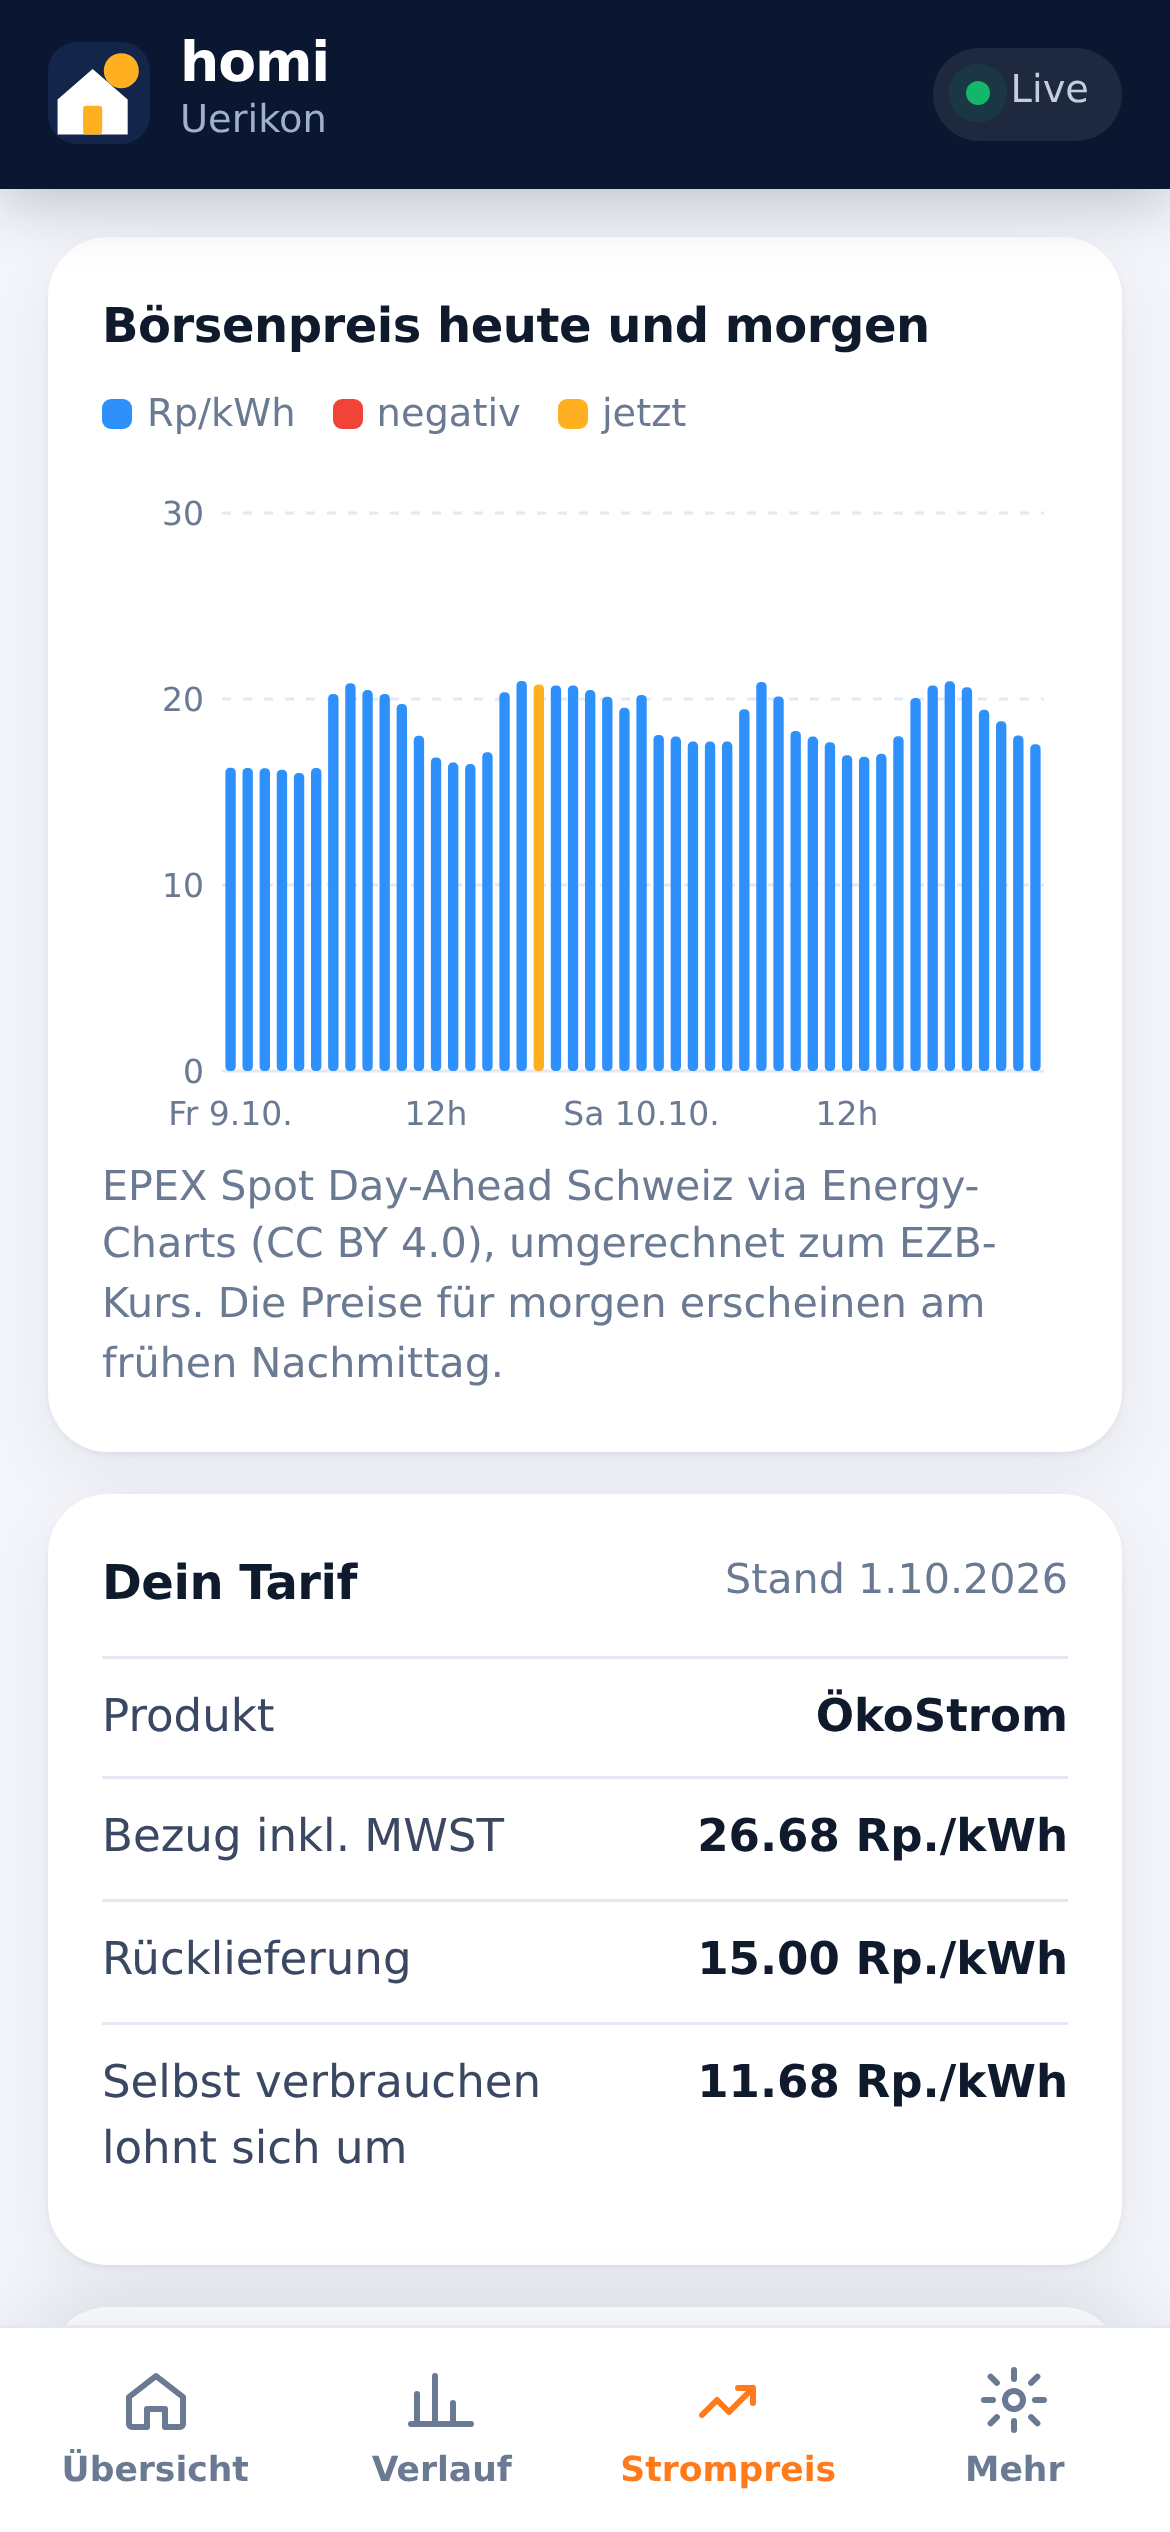
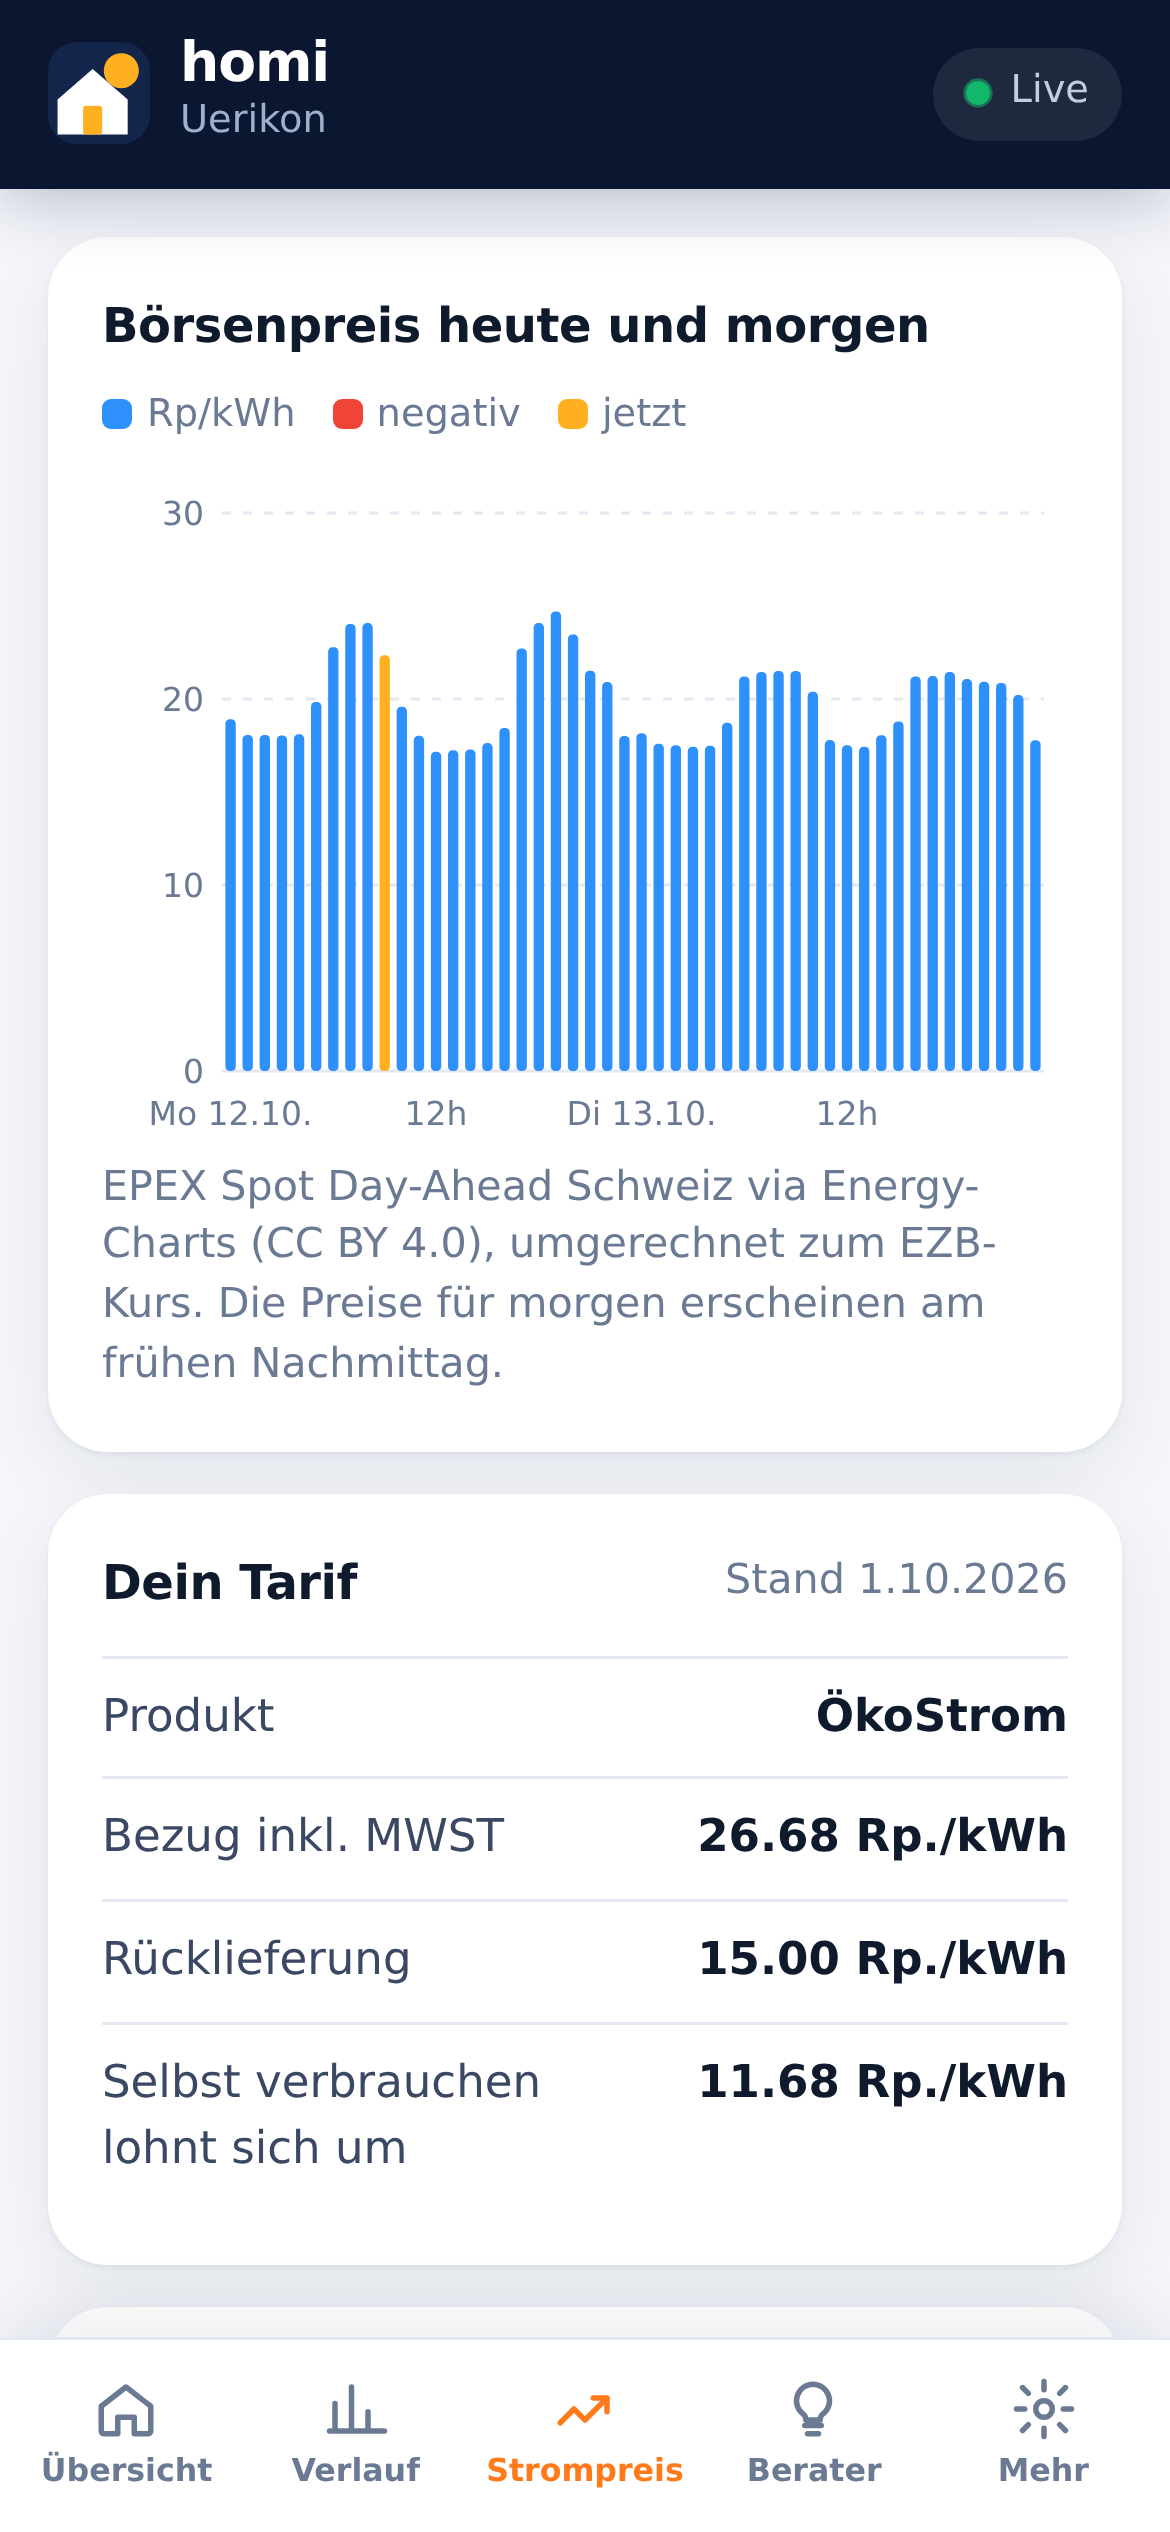
homi.solar: Handy-Ansichten mit Mittagssonne (12.10.2026 11:30, Solar 4.1 kW)
Automatisch aufgenommen von energy/handy-screenshots.py

diff --git a/energy/www/index.html b/energy/www/index.html
@@ -346,7 +346,7 @@
     <div class="section-head center rein">
       <span class="kicker">Einblick</span>
       <h2>So sieht dein homi aus</h2>
-      <p class="sub">Echte Werte aus Uerikon, aufgenommen am Abend des 9. Oktober 2026. Die Sonne ist schon untergegangen, darum kommt der Strom gerade aus dem Netz.</p>
+      <p class="sub">Echte Werte aus Uerikon, aufgenommen am Montag, 12. Oktober 2026 um 11:30 Uhr: Die Anlage liefert gerade 4.1 kW, das Haus braucht 0.2 kW, der Rest fliesst ins Netz.</p>
     </div>
     <div class="ansicht-reihe">
       <figure class="rein"><img src="img/app-uebersicht.png" width="1170" height="2532" alt="homi auf dem Handy, Übersicht: Energiefluss zwischen Solaranlage, Haus und Netz, darunter Solarertrag, Verbrauch, Autarkie und Bilanz von heute" loading="lazy">
